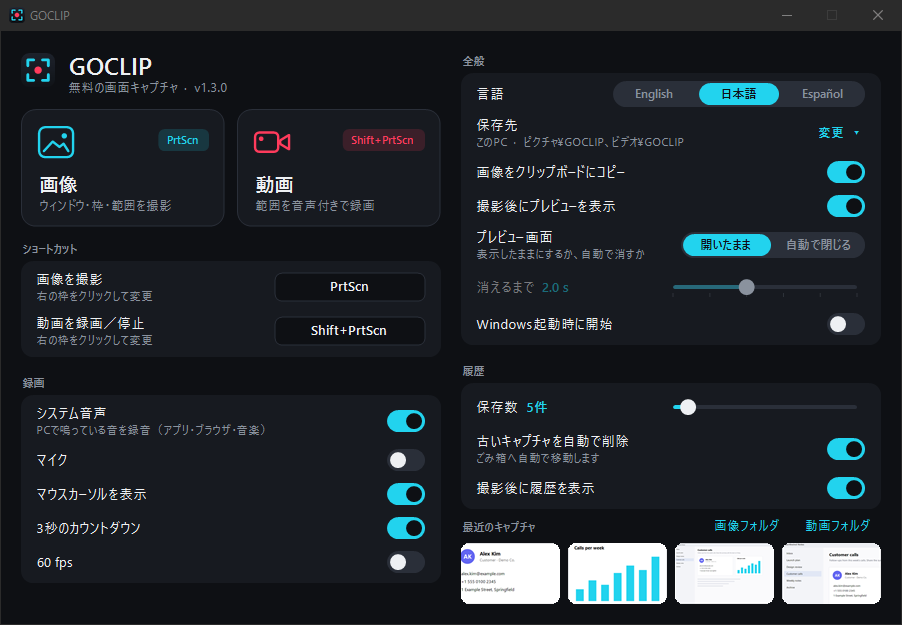
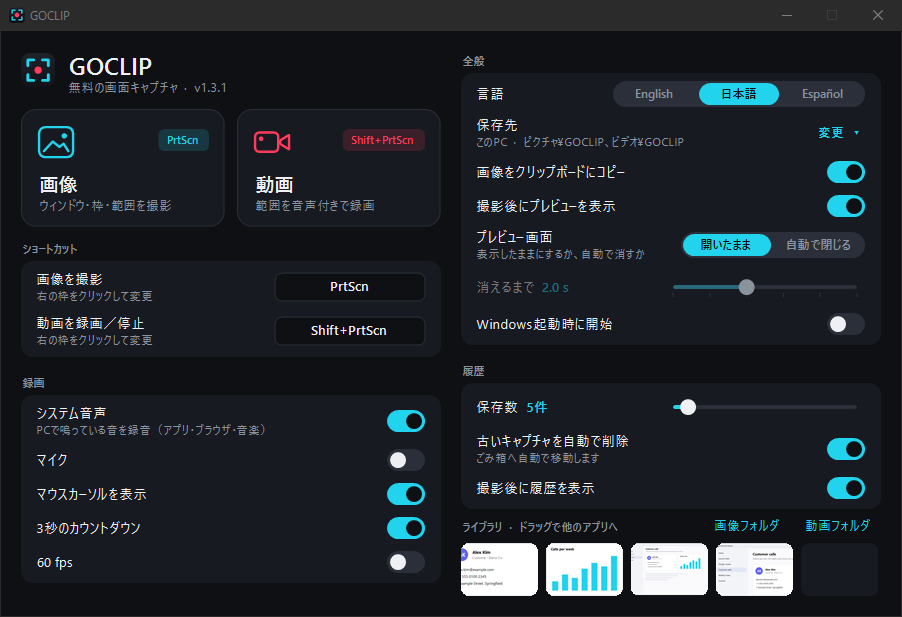
GOCLIP 1.3.1 - drag captures from the in-app library

diff --git a/README.md b/README.md
@@ -15,7 +15,7 @@ Hover to find the frame. Click to capture.</p>
 - **Video with sound** — MP4 (H.264 + AAC). Record system audio, your microphone, or both. Pause, resume, stop or discard; the red frame and toolbar never show up in the video.
 - **Mosaic** — hide any number of areas in images and videos. In videos, set a start and end for each area, and let it follow moving content.
 - **Full screen fast** — top edge = that monitor, Shift + top edge = all displays.
-- **History strip** — drag captures straight into other apps; keep 5 (or up to 50), older ones recycled automatically.
+- **Library & history** — your latest captures sit in the main window and in a strip after each capture; drag them straight into other apps. Keep 5 (or up to 50), older ones recycled automatically.
 - **Crop** — Free, 1:1, 4:3, 3:2, 16:9, 9:16, 4:5.
 - **Save anywhere** — This PC, Google Drive, OneDrive, Dropbox, iCloud Drive, Box, a NAS or any folder.
 - **Share** — Windows share, email, Gmail, Outlook.com, X, Facebook, LinkedIn, Threads, Bluesky.
@@ -34,7 +34,7 @@ Hover to find the frame. Click to capture.</p>
 
 <p align="center"><img src="docs/full-screen.png" width="820" alt="Top edge selects the full screen"></p>
 
-**History you can drag from.** Your latest captures stay one drag away from any app, chat, e-mail or folder. Keep as many as you like (5 by default); older ones go to the Recycle Bin.
+**A library you can drag from.** Your latest captures stay one drag away from any app, chat, e-mail or folder — from the LIBRARY row in the main window, or from the strip that appears after each capture. Keep as many as you like (5 by default); older ones go to the Recycle Bin.
 
 <p align="center"><img src="docs/history.png" width="700" alt="History strip"></p>
 
